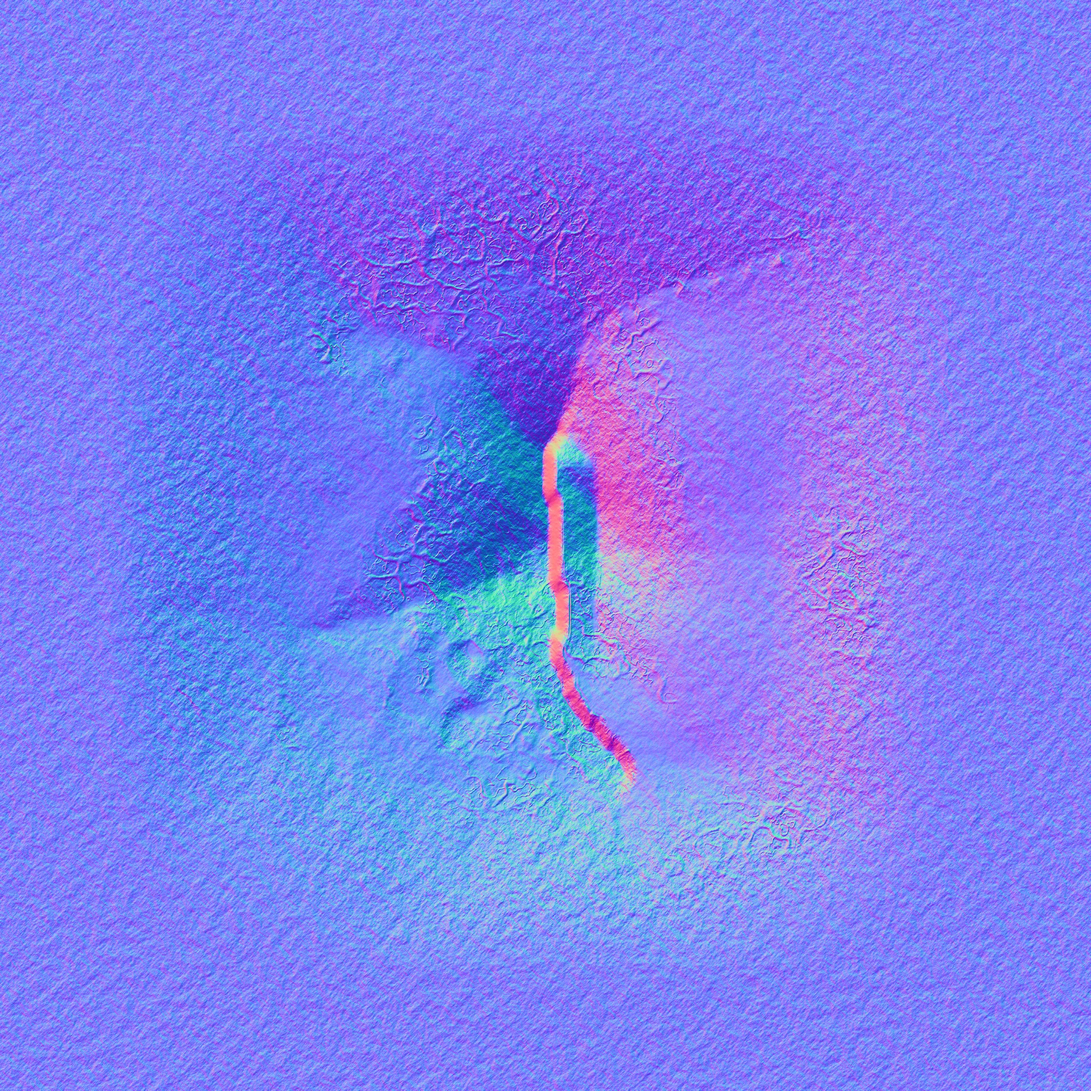
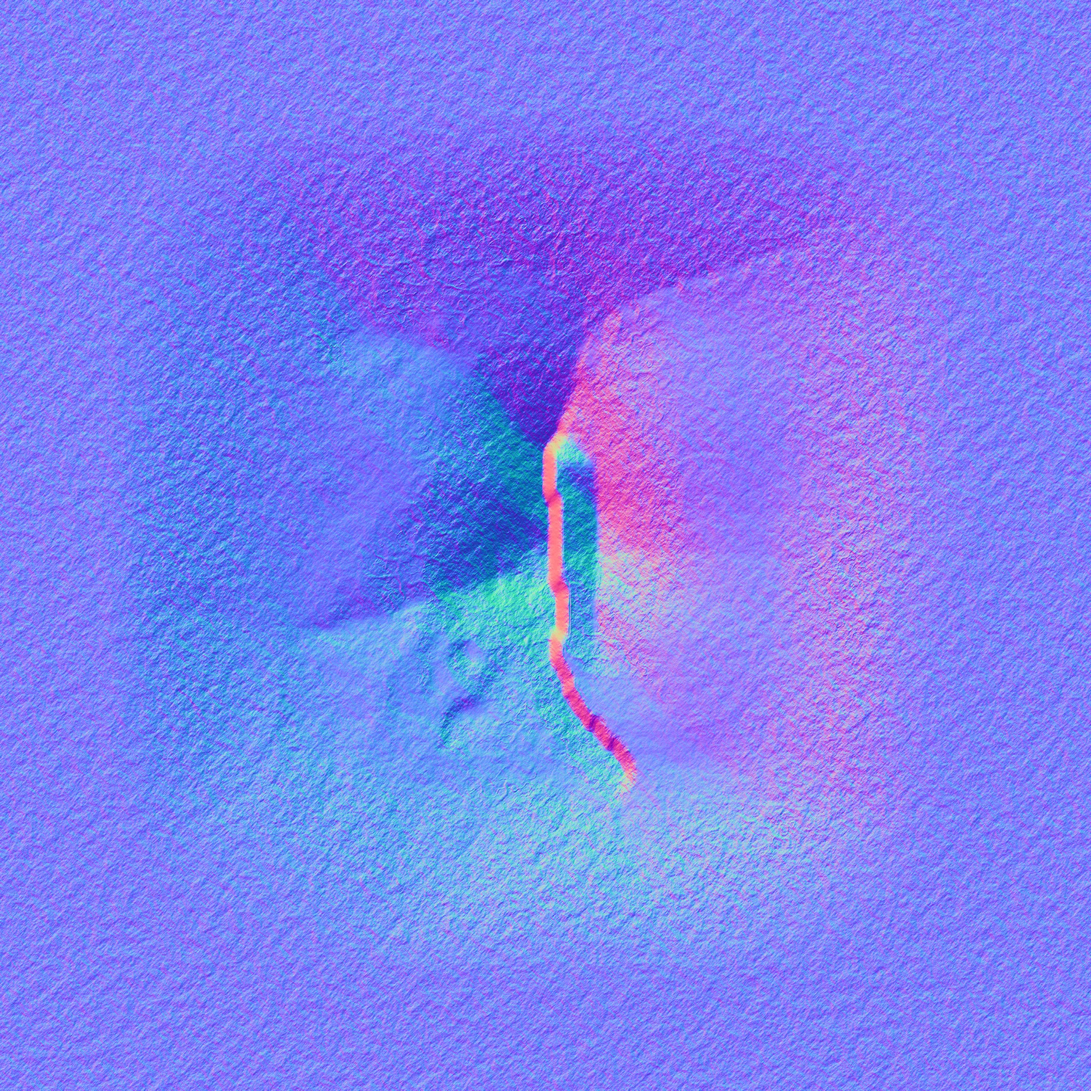
cpolar_v2 hero: elliptical cloud alpha, no wormy fractures, tighter shot
Three defects, each found by looking rather than guessing.

  The cloud banks faded their alpha per-EDGE, which is still a rectangle, just a soft
  one - and on a bank that large and that close the four straight fade lines crossed
  the picture. Judged as overlapping geometry planes. Elliptical falloff has no
  straight edge to show at any softness.

  The dark dendritic markings crawling over the rock face were the FRACTURE mask, not
  the drainage - confirmed by dumping every component mask to an image instead of
  guessing again, after cutting the drainage twice with no effect. Ridged value noise
  makes smooth meanders, because the midline contour of smooth noise is a smooth
  curve; real fracture is angular, which is a Voronoi cell edge. Used for relief only
  now, never for colour.

  The broad smooth mottle over everything was reading as marbling at this scale. The
  triplanar detail does that job at a scale the eye takes for rock.

Claude-Session: https://claude.ai/code/session_01WdFc1FmLWgC623iWUuAuKi

diff --git a/cpolar_v2/index.html b/cpolar_v2/index.html
@@ -162,7 +162,7 @@ const scene = new THREE.Scene();
 // The summit is 363 units from this camera and the far ridge about 554. Fog starting
 // at 250 put the summit past the halfway point of the ramp and bleached it out; it has
 // to start beyond the peak so only the ground BEHIND the peak recedes.
-scene.fog = new THREE.Fog(0xe6ecf1, 620, 1300);
+scene.fog = new THREE.Fog(0xe6ecf1, 470, 1050);
 
 // The shot. The summit of this mesh is at world (15.4, 58.4, -2.4).
 //   - the camera sits BELOW it, so the frame looks UP at the peak. The first version
@@ -171,8 +171,8 @@ scene.fog = new THREE.Fog(0xe6ecf1, 620, 1300);
 //   - aimed to the LEFT of the summit line, which throws the peak to the RIGHT of
 //     frame and leaves the left half clear for the copy.
 const camera = new THREE.PerspectiveCamera(20, innerWidth/innerHeight, 1, 5000);
-camera.position.set(-290, 22, 470);
-const AIM = new THREE.Vector3(-38, 32, -37);
+camera.position.set(-244, 26, 372);
+const AIM = new THREE.Vector3(-30, 34, -40);
 camera.lookAt(AIM);
 
 // light: a hard raking key from the left so one face is lit and the other falls into
@@ -277,12 +277,19 @@ function cloudTex(soft){
     gr.addColorStop(1, 'rgba(255,255,255,0)');
     x.fillStyle = gr; x.beginPath(); x.arc(cxp,cyp,r,0,7); x.fill();
   }
-  // then punch the alpha to zero at every edge, so the plane has no visible rectangle
+  // Then fade the alpha out RADIALLY. It was done per-edge before - one falloff from
+  // the left and right borders, another from the top and bottom - which is still a
+  // rectangle, just a soft one, and on a bank this large and this close to the camera
+  // the four straight fade lines were plainly visible crossing the picture. Judged as
+  // "straight translucent polygon edges ... overlapping geometry planes". An ellipse
+  // has no straight edge to show at any softness.
   const img = x.getImageData(0,0,W,H), d = img.data;
   for (let py=0; py<H; py++) for (let px=0; px<W; px++) {
-    const fx = Math.min(px, W-1-px) / (W*0.22), fy = Math.min(py, H-1-py) / (H*0.30);
-    const f = Math.min(1, fx) * Math.min(1, fy);
-    d[(py*W+px)*4+3] *= f*f*(3-2*f);
+    const ex = (px/(W-1) - 0.5) * 2.0, ey = (py/(H-1) - 0.5) * 2.0;
+    const r = Math.sqrt(ex*ex + ey*ey*0.72);
+    let f = 1.0 - Math.min(1, Math.max(0, (r - 0.30) / 0.70));
+    f = f*f*(3-2*f);
+    d[(py*W+px)*4+3] *= f*f;
   }
   x.putImageData(img,0,0);
   const t = new THREE.CanvasTexture(c); t.colorSpace = THREE.SRGBColorSpace; return t;
@@ -349,7 +356,7 @@ const clock = new THREE.Clock();
     terrain.position.y = -sy * 0.05;
   }
   clouds.children.forEach(c => { c.position.x += c.userData.d; if (c.position.x > c.userData.x0 + 700) c.position.x = c.userData.x0 - 700; });
-  camera.position.y = 22 + Math.sin(t * 0.06) * 1.2;
+  camera.position.y = 26 + Math.sin(t * 0.06) * 1.2;
   camera.lookAt(AIM.x, AIM.y - sy * 0.012, AIM.z);
   renderer.render(scene, camera);
 })();
